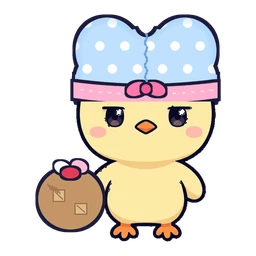
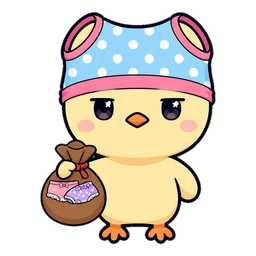
팬티도둑 일러스트를 OpenAI 이미지 API 로 새로 생성 · 생성/배경제거 스크립트(tooling/openai_chick_art.py) · 패치노트
Claude-Session: https://claude.ai/code/session_018GzTivP446Z4KhefLmvcv5

diff --git a/tooling/openai_chick_art.py b/tooling/openai_chick_art.py
@@ -1,0 +1,55 @@
+#!/usr/bin/env python3
+"""🎨 OpenAI 이미지 API 로 브장신 병아리 캐릭터 그림 뽑기 → 초록 배경 제거 → 256px WebP (CLAUDE.md 「그림」 절 참고)
+사용: python3 tooling/openai_chick_art.py "<소품 영어 문구>" 출력접두 [장수=3]
+  예: python3 tooling/openai_chick_art.py "wearing polka-dot briefs on its head, holding a loot sack" /tmp/x/pty 3
+  → /tmp/x/pty_1.png … (초록 배경 원본) · 마음에 드는 것을 골라:  python3 tooling/openai_chick_art.py --cut /tmp/x/pty_1.png img/survivors/char_<키>.webp
+키는 환경에 없다 — 세션 프록시가 api.openai.com 호출에 인증을 붙인다. 투명 배경 옵션은 이 모델이 못 쓴다(그래서 초록 배경 + 제거)."""
+import sys, subprocess, json, base64, os
+from collections import deque
+ROOT = os.path.dirname(os.path.dirname(os.path.abspath(__file__)))
+SRC = os.path.join(ROOT, 'img', 'brjang', 'parts', 'body_chick', 'front.png')
+
+def gen(prop, out):
+    prompt = ("Keep this yellow chick character exactly as it is — same head shape, face, cheeks, beak, feet, outline and art style — and it is %s. "
+              "Front view, full body, centered, on a solid flat bright green (#00ff00) background with no shadow, same art style as the original, no text, no letters, no numbers." % prop)
+    r = subprocess.run(['curl', '-sS', '--max-time', '100', '-X', 'POST', 'https://api.openai.com/v1/images/edits',
+                        '-F', 'model=gpt-image-2', '-F', 'image=@' + SRC, '-F', 'quality=low', '-F', 'size=1024x1024',
+                        '-F', 'output_format=png', '-F', 'prompt=' + prompt], capture_output=True, text=True)
+    try: j = json.loads(r.stdout)
+    except Exception: return 'RAW ' + r.stdout[:200] + r.stderr[:200]
+    if 'data' not in j: return json.dumps(j)[:300]
+    open(out, 'wb').write(base64.b64decode(j['data'][0]['b64_json'])); return 'ok'
+
+def cut(src, dst):
+    from PIL import Image, ImageFilter
+    import numpy as np
+    im = Image.open(src).convert('RGB'); a = np.array(im).astype(int)
+    bg = ((a[..., 1] - np.maximum(a[..., 0], a[..., 2])) > 70) & (a[..., 1] > 150)
+    H, W = bg.shape; vis = np.zeros_like(bg); dq = deque()
+    for x in range(W):
+        for y in (0, H - 1):
+            if bg[y, x]: dq.append((y, x)); vis[y, x] = 1
+    for y in range(H):
+        for x in (0, W - 1):
+            if bg[y, x]: dq.append((y, x)); vis[y, x] = 1
+    while dq:   # 가장자리와 이어진 초록만 지운다(외곽선 안쪽 색은 건드리지 않는다)
+        y, x = dq.popleft()
+        for dy, dx in ((1, 0), (-1, 0), (0, 1), (0, -1)):
+            ny, nx = y + dy, x + dx
+            if 0 <= ny < H and 0 <= nx < W and bg[ny, nx] and not vis[ny, nx]: vis[ny, nx] = 1; dq.append((ny, nx))
+    am = Image.fromarray(np.where(vis, 0, 255).astype(np.uint8)).filter(ImageFilter.MinFilter(3)).filter(ImageFilter.GaussianBlur(1.2))
+    o = np.array(im).astype(int); edge = np.array(am) < 250
+    fix = edge & ((o[..., 1] - np.maximum(o[..., 0], o[..., 2])) > 0)
+    o[..., 1] = np.where(fix, np.maximum(o[..., 0], o[..., 2]), o[..., 1])   # 가장자리 초록 번짐 제거
+    res = Image.fromarray(o.astype(np.uint8)).convert('RGBA'); res.putalpha(am)
+    bb = res.getbbox(); cw = max(bb[2] - bb[0], bb[3] - bb[1]); pad = int(cw * .05); cx = (bb[0] + bb[2]) // 2; cy = (bb[1] + bb[3]) // 2; h = cw // 2 + pad
+    res.crop((cx - h, cy - h, cx + h, cy + h)).resize((256, 256), Image.LANCZOS).save(dst, quality=90)
+    print('saved', dst, os.path.getsize(dst), 'bytes')
+
+if __name__ == '__main__':
+    if sys.argv[1] == '--cut': cut(sys.argv[2], sys.argv[3])
+    else:
+        n = int(sys.argv[3]) if len(sys.argv) > 3 else 3
+        from concurrent.futures import ThreadPoolExecutor
+        with ThreadPoolExecutor(4) as ex:
+            for i, res in enumerate(ex.map(lambda k: gen(sys.argv[1], '%s_%d.png' % (sys.argv[2], k)), range(1, n + 1)), 1): print(i, res)

diff --git a/CLAUDE.md b/CLAUDE.md
@@ -136,7 +136,7 @@
 - 원본은 브장신 병아리: `img/brjang/parts/body_chick/front.png`(정면, 1024²) 등. 프롬프트 틀과 8종 캐릭터 소품 문구는 `tooling/improve/ideas/P-6-brj-survivors.md` 「그림 제작 완료」에 있다:
   `Keep this yellow chick character exactly as it is — same head shape, face, cheeks, beak, feet, outline and art style — and it is <소품>. Front view, full body, centered, ... same art style as the original, no text, no letters, no numbers.`
 - 결과는 **눈으로 확인**(어두운 배경에 합성한 contact sheet) 후, 256px WebP(`img/survivors/char_<키>.webp`, 10~25KB)로 줄여 쓴다. 틀리면 프롬프트를 고쳐 다시. 여러 장 뽑아 제일 나은 것을 고른다.
-- 팬티도둑(`pty`) 그림은 처음에 PIL 로 직접 합성해 올렸다 — 사장님이 API 로 다시 뽑으라고 해서 교체 중(`img/survivors/char_pty.webp`).
+- **스크립트가 있다: `tooling/openai_chick_art.py`**(생성 N장 → 초록 배경 제거 → 256px WebP). 사용법은 파일 머리 주석. 팬티도둑(`pty`)이 이걸로 만든 첫 결과(처음엔 PIL 로 직접 그려 올렸다가 사장님이 API 로 다시 뽑으라고 해서 교체).
 
 ## 🧠 사장님이 "남겨 놔 / 기억해 / 초기화되기 전에" 라고 하면 — 바로 CLAUDE.md 에 쓴다 (2026-10-17)
 > "세션 초기화될 때마다 이런 거 설명해야 해?" → "초기화되기 전에 남겨놔" → "이 남겨두라는 내용조차 남겨놔"
